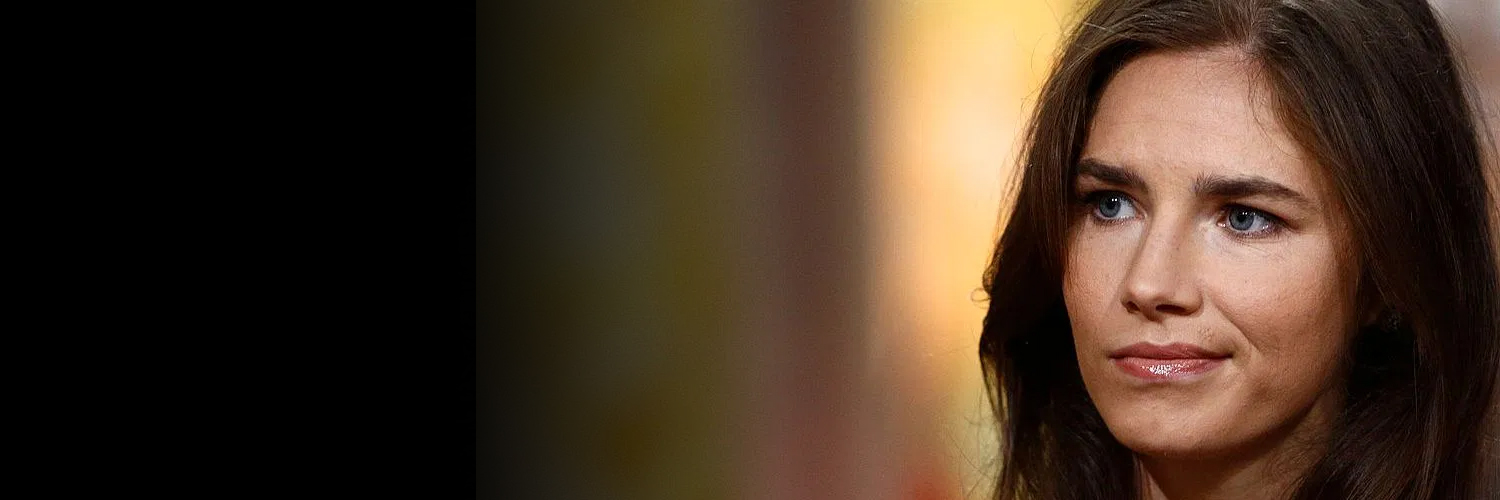
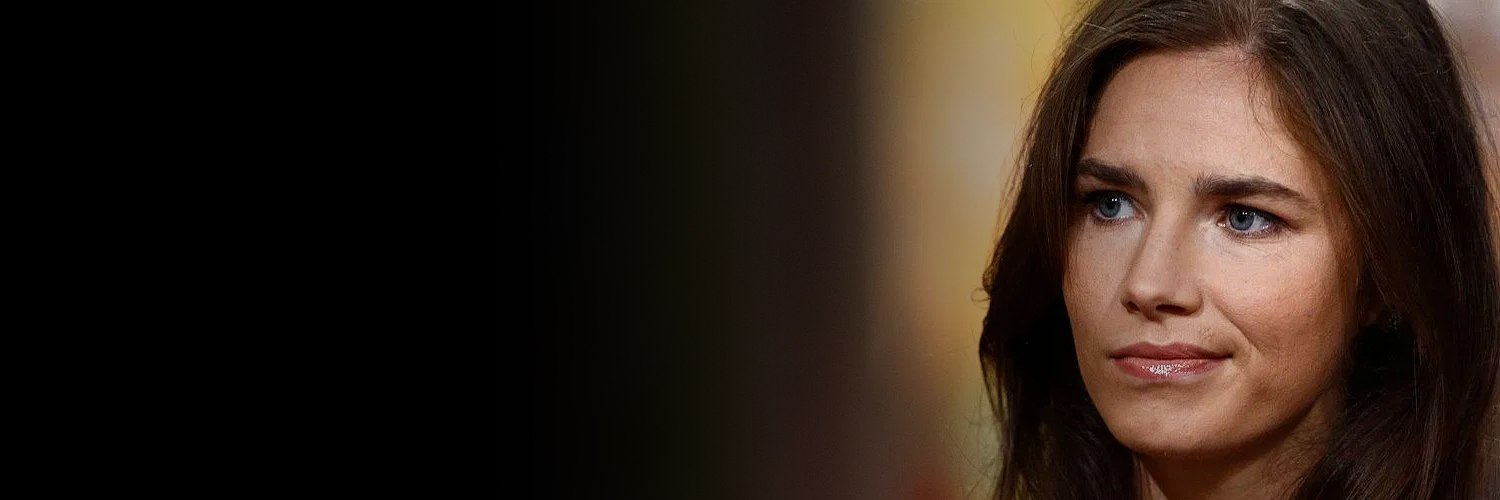
feat: seed now complete

diff --git a/src/seed.js b/src/seed.js
@@ -173,7 +173,8 @@ export function seedDatabase(firebase) {
   firebase.firestore().collection('series').add({
     id: getUUID(),
     title: 'The Confession Killer',
-    description: '',
+    description:
+      'Henry Lee Lucas was an American convicted serial killer whose crimes spanned from 1960 to 1983. He was convicted of murdering eleven people and condemned to death for the murder of Debra Jackson, although his sentence would be commuted to life in prison in 1998.',
     genre: 'crime',
     maturity: '18',
     slug: 'the-confession-killer',
@@ -247,67 +248,237 @@ export function seedDatabase(firebase) {
   /* Films
     ============================================ */
   // Drama
-  for (let index = 0; index < 5; index += 1) {
-    firebase.firestore().collection('films').add({
-      id: getUUID(),
-      title: 'The Prestige',
-      description:
-        'Two friends and fellow magicians become bitter enemies after a sudden tragedy. As they devote themselves to this rivalry, they make sacrifices that bring them fame but with terrible consequences.',
-      genre: 'drama',
-      maturity: '15',
-      slug: 'the-prestige',
-    });
-  }
+  firebase.firestore().collection('films').add({
+    id: getUUID(),
+    title: 'The Prestige',
+    description:
+      'Two friends and fellow magicians become bitter enemies after a sudden tragedy. As they devote themselves to this rivalry, they make sacrifices that bring them fame but with terrible consequences.',
+    genre: 'drama',
+    maturity: '15',
+    slug: 'the-prestige',
+  });
+  firebase.firestore().collection('films').add({
+    id: getUUID(),
+    title: 'Fight Club',
+    description:
+      'Discontented with his capitalistic lifestyle, a white-collared insomniac forms an underground fight club with Tyler, a careless soap salesman. The project soon spirals down into something sinister.',
+    genre: 'drama',
+    maturity: '15',
+    slug: 'fight-club',
+  });
+  firebase.firestore().collection('films').add({
+    id: getUUID(),
+    title: 'Kings Speech',
+    description:
+      'King George VI tries to overcome his stammering problem with the help of speech therapist Lionel Logue and makes himself worthy enough to lead his country through World War II.',
+    genre: 'drama',
+    maturity: '15',
+    slug: 'kings-speech',
+  });
+  firebase.firestore().collection('films').add({
+    id: getUUID(),
+    title: 'The Revenant',
+    description:
+      'Hugh Glass, a legendary frontiersman, is severely injured in a bear attack and is abandoned by his hunting crew. He uses his skills to survive and take revenge on his companion, who betrayed him.',
+    genre: 'drama',
+    maturity: '15',
+    slug: 'the-revenant',
+  });
+  firebase.firestore().collection('films').add({
+    id: getUUID(),
+    title: 'The Social Network',
+    description:
+      'Mark Zuckerberg creates a social networking site, Facebook, with the help of his friend Eduardo Saverin. But soon, a string of lies tears their relationship apart even as Facebook connects people.',
+    genre: 'drama',
+    maturity: '12',
+    slug: 'the-social-network',
+  });
 
   // Suspense
-  for (let index = 0; index < 5; index += 1) {
-    firebase.firestore().collection('films').add({
-      id: getUUID(),
-      title: 'Shutter Island',
-      description:
-        'Teddy Daniels and Chuck Aule, two US marshals, are sent to an asylum on a remote island in order to investigate the disappearance of a patient, where Teddy uncovers a shocking truth about the place.',
-      genre: 'suspense',
-      maturity: '15',
-      slug: 'shutter-island',
-    });
-  }
+  firebase.firestore().collection('films').add({
+    id: getUUID(),
+    title: 'Shutter Island',
+    description:
+      'Teddy Daniels and Chuck Aule, two US marshals, are sent to an asylum on a remote island in order to investigate the disappearance of a patient, where Teddy uncovers a shocking truth about the place.',
+    genre: 'suspense',
+    maturity: '15',
+    slug: 'shutter-island',
+  });
+  firebase.firestore().collection('films').add({
+    id: getUUID(),
+    title: 'Gone Girl',
+    description:
+      'Nick Dunne discovers that the entire media focus has shifted on him when his wife Amy Dunne disappears on the day of their fifth wedding anniversary.',
+    genre: 'suspense',
+    maturity: '15',
+    slug: 'gone-girl',
+  });
+  firebase.firestore().collection('films').add({
+    id: getUUID(),
+    title: 'Prisoners',
+    description:
+      "When the police take time to find Keller Dover's daughter and her friend, he decides to go on a search himself. His desperation leads him closer to finding the truth and also jeopardises his own life.",
+    genre: 'suspense',
+    maturity: '15',
+    slug: 'prisoners',
+  });
+  firebase.firestore().collection('films').add({
+    id: getUUID(),
+    title: 'Seven',
+    description:
+      'A serial killer begins murdering people according to the seven deadly sins. Two detectives, one new to the city and the other about to retire, are tasked with apprehending the criminal.',
+    genre: 'suspense',
+    maturity: '15',
+    slug: 'seven',
+  });
+  firebase.firestore().collection('films').add({
+    id: getUUID(),
+    title: 'Zodiac',
+    description:
+      'Robert Graysmith, a cartoonist by profession, finds himself obsessively thinking about the Zodiac killer. He uses his puzzle-solving abilities to get closer to revealing the identity of the killer.',
+    genre: 'suspense',
+    maturity: '15',
+    slug: 'zodiac',
+  });
 
   // Children
-  for (let index = 0; index < 5; index += 1) {
-    firebase.firestore().collection('films').add({
-      id: getUUID(),
-      title: 'Hotel Transylvania',
-      description:
-        'Dracula, who owns a high-end resort for monsters, attempts to keep his daughter from falling in love with Jonathan, a human.',
-      genre: 'children',
-      maturity: '0',
-      slug: 'hotel-transylvania',
-    });
-  }
+  firebase.firestore().collection('films').add({
+    id: getUUID(),
+    title: 'Hotel Transylvania',
+    description:
+      'Dracula, who owns a high-end resort for monsters, attempts to keep his daughter from falling in love with Jonathan, a human.',
+    genre: 'children',
+    maturity: '0',
+    slug: 'hotel-transylvania',
+  });
+  firebase.firestore().collection('films').add({
+    id: getUUID(),
+    title: 'Despicable Me',
+    description:
+      'Gru, a criminal mastermind, adopts three orphans as pawns to carry out the biggest heist in history. His life takes an unexpected turn when the little girls see him as their potential father.',
+    genre: 'children',
+    maturity: '0',
+    slug: 'despicable-me',
+  });
+  firebase.firestore().collection('films').add({
+    id: getUUID(),
+    title: 'Frozen',
+    description:
+      'Anna sets out on a journey with an iceman, Kristoff, and his reindeer, Sven, in order to find her sister, Elsa, who has the power to convert any object or person into ice.',
+    genre: 'children',
+    maturity: '0',
+    slug: 'frozen',
+  });
+  firebase.firestore().collection('films').add({
+    id: getUUID(),
+    title: 'Spirited Away',
+    description:
+      'In this animated feature by noted Japanese director Hayao Miyazaki, 10-year-old Chihiro (Rumi Hiiragi) and her parents (Takashi Naitô, Yasuko Sawaguchi) stumble upon a seemingly abandoned amusement park.',
+    genre: 'children',
+    maturity: '0',
+    slug: 'spirited-away',
+  });
+  firebase.firestore().collection('films').add({
+    id: getUUID(),
+    title: 'Up',
+    description:
+      "Carl, an old widower, goes off on an adventure in his flying house in search of Paradise Falls, his wife's dream destination.",
+    genre: 'children',
+    maturity: '0',
+    slug: 'up',
+  });
 
   // Thriller
-  for (let index = 0; index < 5; index += 1) {
-    firebase.firestore().collection('films').add({
-      id: getUUID(),
-      title: 'Joker',
-      description:
-        'Forever alone in a crowd, failed comedian Arthur Fleck seeks connection as he walks the streets of Gotham City.',
-      genre: 'thriller',
-      maturity: '15',
-      slug: 'joker',
-    });
-  }
+  firebase.firestore().collection('films').add({
+    id: getUUID(),
+    title: 'Joker',
+    description:
+      'Forever alone in a crowd, failed comedian Arthur Fleck seeks connection as he walks the streets of Gotham City.',
+    genre: 'thriller',
+    maturity: '15',
+    slug: 'joker',
+  });
+  firebase.firestore().collection('films').add({
+    id: getUUID(),
+    title: 'A Quiet Place',
+    description:
+      'The Abbott family must now face the terrors of the outside world as they fight for survival in silence. Forced to venture into the unknown, they realize that the creatures that hunt by sound are not the only threats that lurk beyond the sand path.',
+    genre: 'thriller',
+    maturity: '15',
+    slug: 'a-quiet-place',
+  });
+  firebase.firestore().collection('films').add({
+    id: getUUID(),
+    title: 'Black Swan',
+    description:
+      'Nina, a ballerina, gets the chance to play the White Swan, Princess Odette. But she finds herself slipping into madness when Thomas, the artistic director, decides that Lily might fit the role better.',
+    genre: 'thriller',
+    maturity: '15',
+    slug: 'black-swan',
+  });
+  firebase.firestore().collection('films').add({
+    id: getUUID(),
+    title: 'Nightcrawler',
+    description:
+      'Louis Bloom, a petty thief, realises that he can make money by capturing photographs of criminal activities and starts resorting to extreme tactics to get them.',
+    genre: 'thriller',
+    maturity: '15',
+    slug: 'nightcrawler',
+  });
+  firebase.firestore().collection('films').add({
+    id: getUUID(),
+    title: 'The Silence of The Lambs',
+    description:
+      'Clarice Starling, an FBI agent, seeks help from Hannibal Lecter, a psychopathic serial killer and former psychiatrist, in order to apprehend another serial killer who has been claiming female victims.',
+    genre: 'thriller',
+    maturity: '15',
+    slug: 'the-silence-of-the-lambs',
+  });
 
   // Romance
-  for (let index = 0; index < 5; index += 1) {
-    firebase.firestore().collection('films').add({
-      id: getUUID(),
-      title: 'A Star Is Born',
-      description:
-        'After falling in love with struggling artist Ally, Jackson, a musician, coaxes her to follow her dreams, while he battles with alcoholism and his personal demons.',
-      genre: 'romance',
-      maturity: '15',
-      slug: 'a-star-is-born',
-    });
-  }
+  firebase.firestore().collection('films').add({
+    id: getUUID(),
+    title: 'A Star Is Born',
+    description:
+      'After falling in love with struggling artist Ally, Jackson, a musician, coaxes her to follow her dreams, while he battles with alcoholism and his personal demons.',
+    genre: 'romance',
+    maturity: '15',
+    slug: 'a-star-is-born',
+  });
+  firebase.firestore().collection('films').add({
+    id: getUUID(),
+    title: 'Blue Valentine',
+    description:
+      'Dean and Cynthia are married with a daughter and their marriage is about to fall apart. Both come from dysfunctional families and struggle to make sense of their relationship.',
+    genre: 'romance',
+    maturity: '15',
+    slug: 'blue-valentine',
+  });
+  firebase.firestore().collection('films').add({
+    id: getUUID(),
+    title: 'La La Land',
+    description:
+      'Sebastian (Ryan Gosling) and Mia (Emma Stone) are drawn together by their common desire to do what they love. But as success mounts they are faced with decisions that begin...',
+    genre: 'romance',
+    maturity: '15',
+    slug: 'la-la-land',
+  });
+  firebase.firestore().collection('films').add({
+    id: getUUID(),
+    title: 'The Notebook',
+    description:
+      "Duke reads the story of Allie and Noah, two lovers who were separated by fate, to Ms Hamilton, an old woman who suffers from Alzheimer's, on a daily basis out of his notebook.",
+    genre: 'romance',
+    maturity: '15',
+    slug: 'the-notebook',
+  });
+  firebase.firestore().collection('films').add({
+    id: getUUID(),
+    title: 'Titanic',
+    description:
+      'Seventeen-year-old Rose hails from an aristocratic family and is set to be married. When she boards the Titanic, she meets Jack Dawson, an artist, and falls in love with him.',
+    genre: 'romance',
+    maturity: '15',
+    slug: 'titanic',
+  });
 }

diff --git a/src/components/card/styles/card.js b/src/components/card/styles/card.js
@@ -64,6 +64,7 @@ export const Image = styled.img`
   border: 0;
   width: 100%;
   max-width: 305px;
+  cursor: pointer;
   height: auto;
   padding: 0;
   margin: 0;
@@ -100,9 +101,12 @@ export const Feature = styled.div`
   display: flex;
   flex-direction: row;
   background: url(${({ src }) => src});
-  background-size: cover;
+  background-size: contain;
   position: relative;
   height: 500px;
+  background-position-x: right;
+  background-repeat: no-repeat;
+  background-color: black;
 `;
 
 export const FeatureTitle = styled(Title)`
